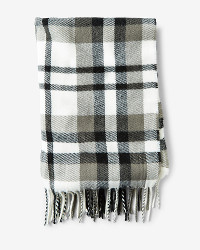
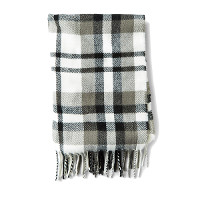
cartNumberWorksNoDynamicLoadSadFace

diff --git a/scarves.html b/scarves.html
@@ -21,8 +21,10 @@
       <li><a href="hats.html">Hats</a></li>
       <li><a href="gloves.html">Gloves</a></li>
       <li><a href="scarves.html">Scarves</a></li>
-        <li style="float:right"><a class="active" href="#about">
-      <i class="fa fa-shopping-cart" aria-hidden="true"></i></a></li>
+        <li style="float:right"><a class="active" href="cart.html">
+      <i class="fa fa-shopping-cart" aria-hidden="true">
+        <strong id="items-in-cart"></strong>
+        </i></a></li>
     </ul>
     </nav>
   <main>
@@ -50,8 +52,8 @@
   
     <div class="item">
       <figure class="">
-        <img srcset="images/reversible-plaid-800.jpg 800w, images/reversible-plaid-400.jpg 400w, images/reversible-plaid-200.jpg 200w"
-        sizes="(max-width: 800px) 200px, (max-width: 1600px) 400px, (min-width: 1601px) 800px"
+        <img srcset="images/reversible-plaid-100.jpg 100w, images/reversible-plaid-300.jpg 300w, images/reversible-plaid-200.jpg 200w"
+        sizes="(max-width: 450px) 100px, (max-width: 1080px) 200px, (min-width: 1081px) 300px"
         src="images/reversible-plaid.jpg" alt="Reversible Plaid">
           <figcaption><h4>Reversible Plaid</h4><p>Two classic patterns in one great look: This supersoft and cozy reversible scarf instantly doubles your street-style cred. 100% acrylic.</p><p class="price">$26.99</p>
           <button class="add-cart" type="button" onclick="addItem('Reversible Plaid')">Add to Cart</button>
@@ -62,8 +64,8 @@
 
       <div class="item">
         <figure class="">
-          <img srcset="images/wool-cable-800.jpeg 800w, images/wool-cable-400.jpeg 400w, images/wool-cable-200.jpeg 200w"
-          sizes="(max-width: 800px) 200px, (max-width: 1600px) 400px, (min-width: 1601px) 800px"
+          <img srcset="images/wool-cable-100.jpeg 100w, images/wool-cable-200.jpeg 200w, images/wool-cable-300.jpeg 300w"
+          sizes="(max-width: 450px) 100px, (max-width: 1080px) 200px, (min-width: 1081px) 300px"
           src="images/wool-cable.jpeg" alt="Wool Cable Knit">
           <figcaption><h4>Wool Cable Knit</h4><p>Warm yourself with this women's natural cable knit scarf, crafted from 100% Merino wool. Imported.</p><p class="price">$49.99</p>
           <button class="add-cart" type="button" onclick="addItem('Wool Cable Knit')">Add to Cart</button>
@@ -74,8 +76,8 @@
     </div>
     <div class="item">
       <figure class="">
-        <img srcset="images/northern-lights-800.jpg 800w, images/northern-lights-400.jpg 400w, images/northern-lights-200.jpg 200w"
-        sizes="(max-width: 800px) 200px, (max-width: 1600px) 400px, (min-width: 1601px) 800px"
+        <img srcset="images/northern-lights-100.jpg 100w, images/northern-lights-200.jpg 200w, images/northern-lights-300.jpg 300w"
+        sizes="(max-width: 450px) 100px, (max-width: 1080px) 200px, (min-width: 1081px) 300px"
         src="images/northern-lights.jpg" alt="Northern Lights">
         <figcaption><h4>Northern Lights</h4><p>Handmade by women in Agra, sales provide medical and educational support in this remote area of India. Crinkly 100% cotton.</p><p class="price">$29.99</p>
         <button class="add-cart" type="button" onclick="addItem('Northern Lights')">Add to Cart</button>
@@ -85,8 +87,8 @@
     </div>
     <div class="item">
       <figure class="">
-        <img srcset="images/ombre-infinity-800.jpg 800w, images/ombre-infinity-400.jpg 400w, images/ombre-infinity-200.jpg 200w"
-        sizes="(max-width: 800px) 200px, (max-width: 1600px) 400px, (min-width: 1601px) 800px"
+        <img srcset="images/ombre-infinity-100.jpg 100w, images/ombre-infinity-200.jpg 200w, images/ombre-infinity-300.jpg 300w"
+        sizes="(max-width: 450px) 100px, (max-width: 1080px) 200px, (min-width: 1081px) 300px"
         src="images/ombre-infinity.jpg" alt="Ombre Infinity">
         <figcaption><h4>Ombre Infinity</h4><p>A dip-dye effect adds color and dimension to a cozy infinity scarf featuring a soft, chunky knit. 100% acrylic.</p><p class="price">$11.99</p>
         <button class="add-cart" type="button" onclick="addItem('Ombre Infinity')">Add to Cart</button>
@@ -96,8 +98,8 @@
     </div>
     <div class="item">
       <figure class="">
-        <img srcset="images/fringed-plaid-800.jpeg 800w, images/fringed-plaid-400.jpeg 400w, images/fringed-plaid-200.jpeg 200w"
-        sizes="(max-width: 800px) 200px, (max-width: 1600px) 400px, (min-width: 1601px) 800px"
+        <img srcset="images/fringed-plaid-100.jpeg 100w, images/fringed-plaid-200.jpeg 200w, images/fringed-plaid-300.jpeg 300w"
+        sizes="(max-width: 450px) 100px, (max-width: 1080px) 200px, (min-width: 1081px) 300px"
         src="images/fringed-plaid.jpeg" alt="Fringed Plaid">
         <figcaption><h4>Fringed Plaid</h4><p>Generously sized, extra soft and featuring a dazzling fringe, this scarf is rendered in a versatile gray, black and white plaid. Expertly beat the cold with style. 100% acrylic.</p><p class="price">$18.99</p>
         <button class="add-cart" type="button" onclick="addItem('Fringed Plaid')">Add to Cart</button>
@@ -107,8 +109,8 @@
     </div>
     <div class="item">
       <figure class="">
-        <img srcset="images/multi-color-800.jpeg 800w, images/multi-color-400.jpeg 400w, images/multi-color-200.jpeg 200w"
-        sizes="(max-width: 800px) 200px, (max-width: 1600px) 400px, (min-width: 1601px) 800px"
+        <img srcset="images/multi-color-100.jpeg 100w, images/multi-color-200.jpeg 200w, images/multi-color-300.jpeg 300w"
+        sizes="(max-width: 450px) 100px, (max-width: 1080px) 200px, (min-width: 1081px) 300px"
         src="images/multi-color.jpeg" alt="Multi Color">
         <figcaption><h4>Multi Color</h4><p>A dip-dye effect adds color and dimension to a cozy infinity scarf featuring a soft, chunky knit. 100% acrylic.</p><p class="price">$11.99</p>
         <button class="add-cart" type="button" onclick="addItem('Multi Color')">Add to Cart</button>
@@ -118,8 +120,8 @@
     </div>
     <div class="item">
       <figure class="">
-        <img srcset="images/etro-800.png 800w, images/etro-400.png 400w, images/etro-200.png 200w"
-        sizes="(max-width: 800px) 200px, (max-width: 1600px) 400px, (min-width: 1601px) 800px"
+        <img srcset="images/etro-100.png 100w, images/etro-200.png 200w, images/etro-300.png 300w"
+        sizes="(max-width: 450px) 100px, (max-width: 1080px) 200px, (min-width: 1081px) 300px"
         src="images/etro.png" alt="Etro Paisley-Print Silk">
         <figcaption><h4>Etro</h4><p>Luxurious silk scarf with subtle paisley pattern. 100% silk.</p><p class="price">$249.99</p>
         <button class="add-cart" type="button" onclick="addItem('Etro')">Add to Cart</button>
@@ -130,10 +132,10 @@
 
     <div class="item">
       <figure class="">
-        <img srcset="images/twill-800.jpg 800w, images/twill-400.jpg 400w, images/twill-200.jpg 200w"
-        sizes="(max-width: 800px) 200px, (max-width: 1600px) 400px, (min-width: 1601px) 800px"
+        <img srcset="images/twill-100.jpg 100w, images/twill-200.jpg 200w, images/twill-300.jpg 300w"
+        sizes="(max-width: 450px) 100px, (max-width: 1080px) 200px, (min-width: 1081px) 300px"
         src="images/twill.jpg" alt="Ashby Twill">
-        <figcaption><h4>Ombre Infinity</h4><p>Faribault brings you the Ashby Twill Scarf in Natural. Woven with a 'broken' twill technique, the Ashby Twill Scarf has a slight zigzag texture. Made in USA, this timeless scarf is crafted with luxurious merino wool and finished with heather gray fringe. 100% Merino wool</p><p class="price">$70.99</p>
+        <figcaption><h4>Ashby Twill</h4><p>Faribault brings you the Ashby Twill Scarf in Natural. Woven with a 'broken' twill technique, the Ashby Twill Scarf has a slight zigzag texture. Made in USA, this timeless scarf is crafted with luxurious merino wool and finished with heather gray fringe. 100% Merino wool</p><p class="price">$70.99</p>
         <button class="add-cart" type="button" onclick="addItem('Ashby Twill')">Add to Cart</button>
         <button class="remove-cart" type="button" onclick="removeItem('Ashby Twill')">Remove</button>
         </figcaption>

diff --git a/js/script.js b/js/script.js
@@ -54,16 +54,6 @@ var products = [
     "imageTitle": "twill.jpg"
   }
 ]
-for (var i = 0; i<products.length; i++) {
-    console.log(products[i].name);
-    console.log(products[i].description);
-    console.log(products[i].price);
-    }
-
-function capture(){
-  console.log(document.filterBy.filter.value);
-  event.preventDefault();
-}
 
 
 //sort by
@@ -103,6 +93,8 @@ function capture() {
 
 
 //sum price of cart items
+
+
 function sumPrices(cartArray) {
 
   var total = 0;
@@ -123,7 +115,8 @@ function addItem(item) {
   if (ProductIndex <= 0) {
     cart.push(item);
   }
-  console.log(cart);
+  var total = document.getElementById("items-in-cart");
+  total.innerHTML = cart.length;
 }
 
 //removeItem - works!
@@ -132,7 +125,8 @@ function removeItem(item) {
   if (ProductIndex != -1) {
     cart.splice(ProductIndex, 1);
   }
-  console.log(cart);
+  var total = document.getElementById("items-in-cart");
+  total.innerHTML = cart.length;
 }
 
 
@@ -149,6 +143,15 @@ function removeItem(item) {
     console.log(products[i].description);
     console.log(products[i].price);
   }*/
+//for (var i = 0; i<products.length; i++) {
+//    console.log(products[i].name);
+//    console.log(products[i].description);
+//    console.log(products[i].price);
+//    }
+//
+//function capture(){
+//  console.log(document.filterBy.filter.value);
+//  event.preventDefault();
+//}
 
 //to-do: print total as html to page next to cart icon, runs when item added or taken away.
-

diff --git a/styles/main.css b/styles/main.css
@@ -82,11 +82,13 @@ main {
      }
 
 header {
+  display: inline-block;
   margin-top: 0px;
   padding: 2%;
   background-color: white;
   flex-direction: row;
   flex-wrap: wrap;
+
 }
 
 header-logo{
@@ -265,7 +267,7 @@ footer p {
     max-width: 100%;
     float: center;
     margin: 0;
-    padding: 5em;
+    padding: 1em;
 }
 footer {
   margin-top: 10rem;
